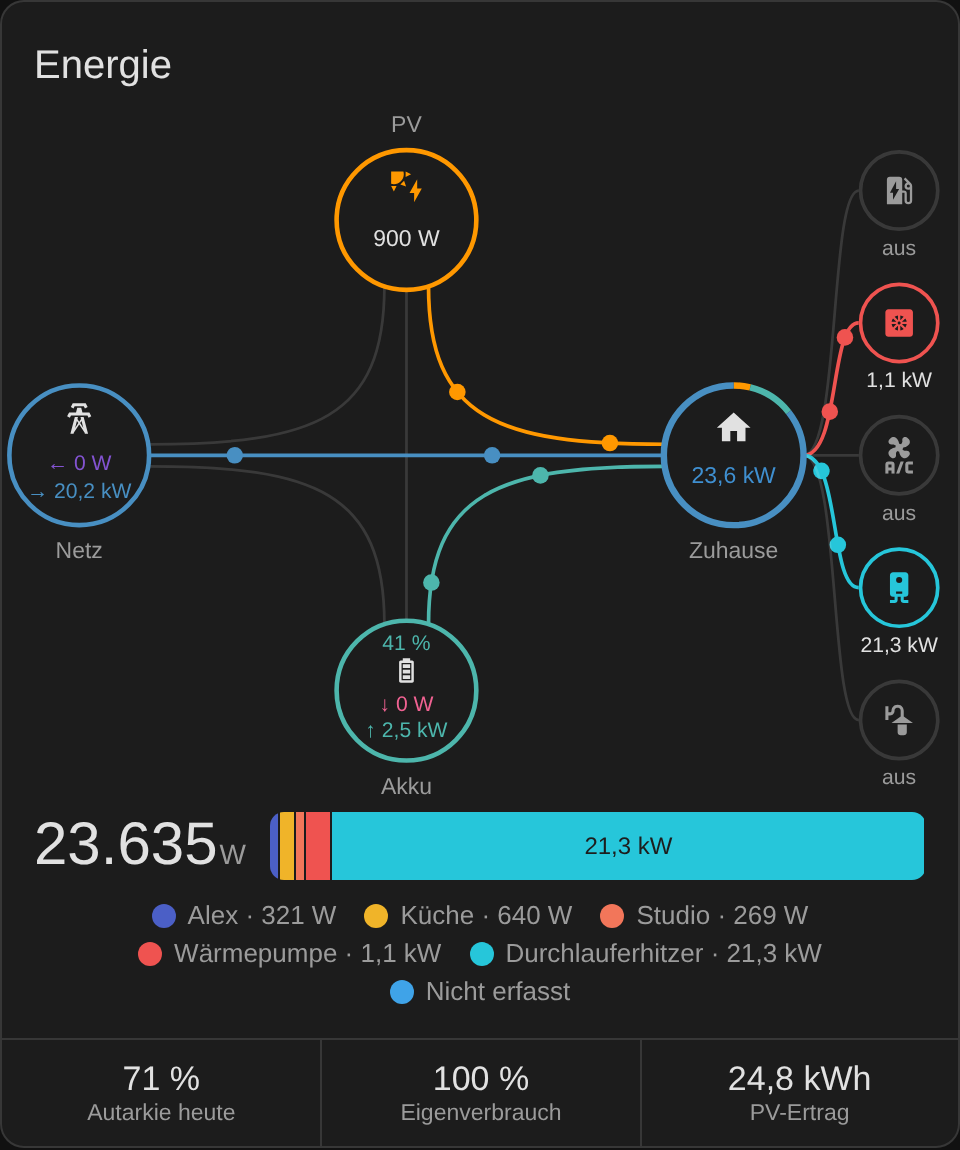
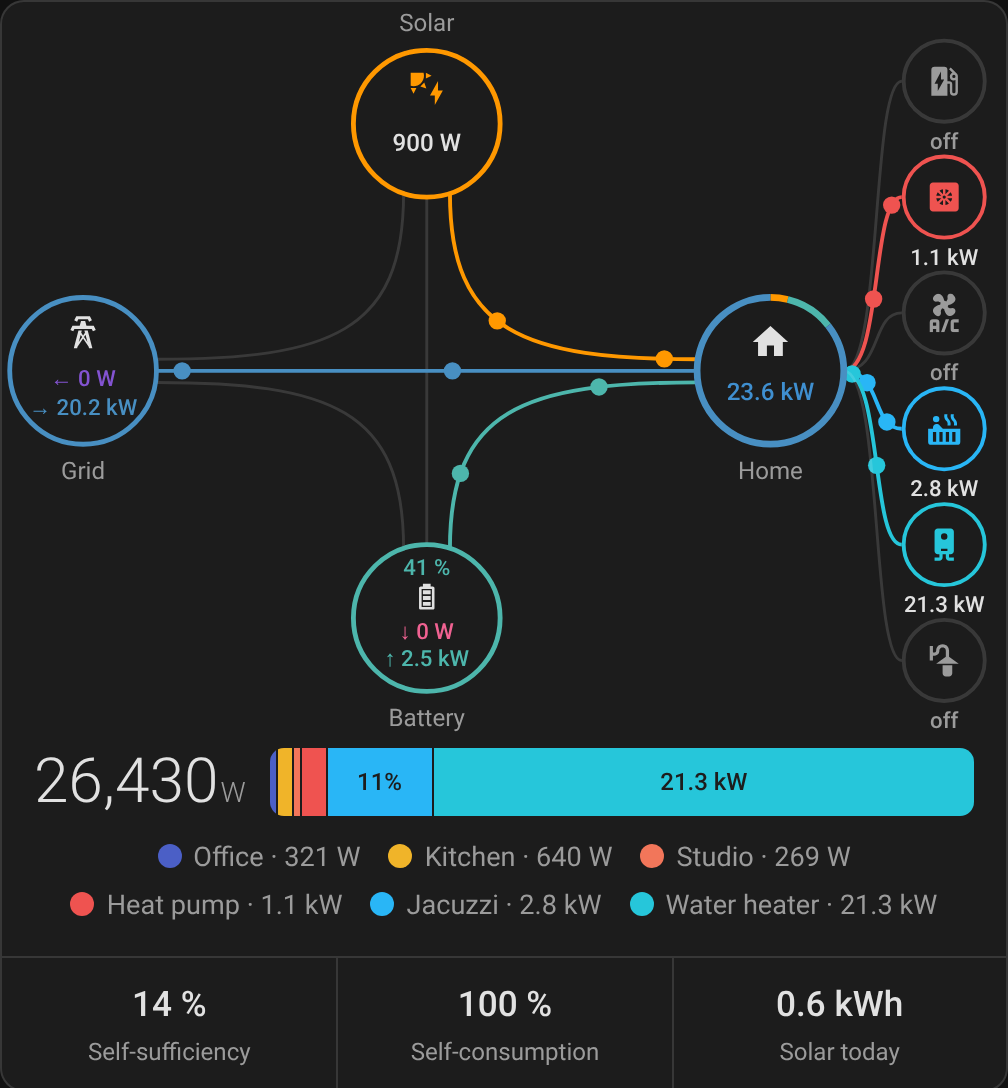
Polish README: gallery of both motifs and the bar card
- New hero GIF switching between the detached and the end-of-terrace
  house at different times of day
- Gallery: both motifs, flow view, light theme and bar card
- Features list, quick start for both cards, options in collapsible
  sections, updated troubleshooting
- Screenshots re-rendered in English; outdated images removed

Claude-Session: https://claude.ai/code/session_01DpoPNKA5wppDXtEv39Y1FU

Changed region(s): [[0.0, 0.0, 1.0, 1.0], [0.0312, 0.0312, 0.1875, 0.0938]]

diff --git a/README.md b/README.md
@@ -2,35 +2,62 @@
 
 # Very Custom Energy House Card
 
-**Your whole energy system in one Home Assistant card – solar, battery, grid, big appliances and every consumer, drawn as a little house.**
+**Your whole energy system as a little house – solar, battery, grid, big appliances, lighting and every consumer in one Home Assistant card.**
 
 [![HACS Custom](https://img.shields.io/badge/HACS-Custom-41BDF5.svg)](https://hacs.xyz/docs/faq/custom_repositories)
 [![Release](https://img.shields.io/github/v/release/Pfillip/very-custom-energy-house-card)](https://github.com/Pfillip/very-custom-energy-house-card/releases/latest)
 [![Build](https://github.com/Pfillip/very-custom-energy-house-card/actions/workflows/build.yml/badge.svg)](https://github.com/Pfillip/very-custom-energy-house-card/actions/workflows/build.yml)
 [![License: MIT](https://img.shields.io/github/license/Pfillip/very-custom-energy-house-card)](LICENSE)
 
-[**▶ Try the live demo**](https://pfillip.github.io/very-custom-energy-house-card/) · [Install](#installation) · [Configuration](#configuration) · [Changelog](CHANGELOG.md)
+[**▶ Live demo**](https://pfillip.github.io/very-custom-energy-house-card/) · [Installation](#installation) · [Quick start](#quick-start) · [Options](#options) · [Changelog](CHANGELOG.md)
 
-<img src="https://raw.githubusercontent.com/Pfillip/very-custom-energy-house-card/main/docs/images/demo.gif" alt="The card cycling from night to morning, noon and evening" width="480">
+<img src="https://raw.githubusercontent.com/Pfillip/very-custom-energy-house-card/main/docs/images/demo.gif" alt="The card switching between the detached house and the end-of-terrace house at different times of day" width="440">
 
 </div>
 
-## Highlights
+## Two motifs, two cards
 
-| | |
-| --- | --- |
-| 🏠 **House view** | An isometric house with solar roof, windows, front door and garden. Inverter, battery, wallbox, heat pump and air conditioner sit on the walls as 3D units. Cables light up in the color of the energy source and run in the direction of the flow. |
-| 🏘 **Two house motifs** | A detached house with gable roof, or an end-of-terrace house with flat roof, neighbour, two garages with PV and a back garden (`house_style: terraced`). |
-| 🔀 **Flow view** | Solar, grid, battery and home as nodes with all six flow paths. Dots move faster with more power; the ring around *Home* shows where the energy comes from. |
-| 🔌 **Large appliances** | Wallbox, heat pump, air conditioner, instantaneous water heater and any number of heating rods. Each one only appears once it is configured; water heater and heating rods can hide while inactive. |
-| 💡 **Lighting** | Front garden (light above the door, bollards along the walkway), back garden and the lights inside the house – the windows glow, dimmed to the light's brightness. Each follows its own light or switch. |
-| 📊 **Consumption bar** | Your consumers and the large appliances as one stacked bar. Whatever is not covered shows up as *Untracked*. |
-| 🔢 **Key figures** | Three slots with your own entities and names, or live self-sufficiency and self-consumption. Hide them completely if you don't need them. |
-| 🎨 **Fits your dashboard** | Visual editor, light and dark themes, energy colors from your theme, English and German. Clicking anything opens its more-info dialog. |
+<table>
+  <tr>
+    <td width="50%" valign="top">
+      <img src="https://raw.githubusercontent.com/Pfillip/very-custom-energy-house-card/main/docs/images/house-classic.png" alt="Detached house at noon: solar export, battery charging, wallbox and heating rod active">
+      <p align="center"><b>Detached house</b><br><sub><code>house_style: classic</code></sub></p>
+    </td>
+    <td width="50%" valign="top">
+      <img src="https://raw.githubusercontent.com/Pfillip/very-custom-energy-house-card/main/docs/images/house-terraced.png" alt="End-of-terrace house in the evening with lit windows, garden lighting and the jacuzzi running">
+      <p align="center"><b>End-of-terrace house</b> with garages and back garden<br><sub><code>house_style: terraced</code></sub></p>
+    </td>
+  </tr>
+  <tr>
+    <td width="50%" valign="top">
+      <img src="https://raw.githubusercontent.com/Pfillip/very-custom-energy-house-card/main/docs/images/flow-view.png" alt="Flow view in the morning with the water heater running">
+      <p align="center"><b>Flow view</b><br><sub><code>view: flow</code> or switchable in the card</sub></p>
+    </td>
+    <td width="50%" valign="top">
+      <img src="https://raw.githubusercontent.com/Pfillip/very-custom-energy-house-card/main/docs/images/light-theme.png" alt="Detached house in a light theme in the evening with indoor and garden lights on">
+      <p align="center"><b>Light and dark themes</b><br><sub>colors follow your Home Assistant theme</sub></p>
+    </td>
+  </tr>
+  <tr>
+    <td colspan="2" valign="top">
+      <img src="https://raw.githubusercontent.com/Pfillip/very-custom-energy-house-card/main/docs/images/bar-card.png" alt="Bar card with chips, consumption bar, legend and key figures">
+      <p align="center"><b>Bar card</b> – the consumption bar as a card of its own<br><sub><code>custom:very-custom-energy-bar-card</code></sub></p>
+    </td>
+  </tr>
+</table>
 
-## Live demo
+<sub>All pictures use simulated sensor values. Try them yourself in the <a href="https://pfillip.github.io/very-custom-energy-house-card/">live demo</a>.</sub>
 
-The [live demo](https://pfillip.github.io/very-custom-energy-house-card/) runs the real card with simulated sensor values. Switch the time of day, the lights, the theme and the language to see how the card reacts.
+## Features
+
+- 🏠 **House view** – an isometric house with solar roof, windows, door and garden. Inverter, battery, wallbox, heat pump and air conditioner hang on the walls as 3D units; cables light up in the color of the energy source and run in the direction of the flow.
+- 🔋 **Battery at a glance** – the battery front is a 5-segment gauge: red below 20 %, amber below 50 %, green above.
+- 🔀 **Flow view** – solar, grid, battery and home with all six flow paths. Dots move faster with more power; the ring around *Home* shows where the energy comes from.
+- 🔌 **Large appliances** – wallbox, heat pump, air conditioner, jacuzzi, instantaneous water heater and any number of heating rods. Each appears only once it is configured; some can hide while inactive.
+- 💡 **Lighting** – front garden, back garden and indoor lights. Windows glow dimmed to the light's brightness, bollards light the walkway and the garden.
+- 📊 **Consumption bar** – your consumers and the large appliances as one stacked bar; whatever is not covered shows up as *Untracked*. Also available as its own card.
+- 🔢 **Key figures** – three slots with your own entities and names, or live self-sufficiency and self-consumption. Or none at all.
+- 🎨 **Fits your dashboard** – visual editor, custom colors for every consumer, adjustable label size, sections layout with free height, side-by-side layout on wide cards, English and German. Clicking anything opens its more-info dialog.
 
 ## Installation
 
@@ -38,31 +65,50 @@ The [live demo](https://pfillip.github.io/very-custom-energy-house-card/) runs t
 
 [![Open your Home Assistant instance and open this repository in HACS.](https://my.home-assistant.io/badges/hacs_repository.svg)](https://my.home-assistant.io/redirect/hacs_repository/?owner=Pfillip&repository=very-custom-energy-house-card&category=plugin)
 
-Or by hand:
+Or by hand: HACS → ⋮ → **Custom repositories** → add `https://github.com/Pfillip/very-custom-energy-house-card` with type **Dashboard**, then download **Very Custom Energy House Card** and reload the browser.
 
-1. Open HACS → ⋮ → **Custom repositories**.
-2. Add `https://github.com/Pfillip/very-custom-energy-house-card` with type **Dashboard**.
-3. Search for **Very Custom Energy House Card** and download it.
-4. Reload the browser.
-
-### Manual
+<details>
+<summary>Manual installation</summary>
 
 1. Download `very-custom-energy-house-card.js` from the [latest release](https://github.com/Pfillip/very-custom-energy-house-card/releases/latest).
 2. Copy it to `config/www/`.
 3. Add it as a dashboard resource: **Settings → Dashboards → ⋮ → Resources**, URL `/local/very-custom-energy-house-card.js`, type *JavaScript module*.
 
-## Configuration
+</details>
 
-Add the card through **Add card → Very Custom Energy House Card** and set it up in the visual editor. A minimal YAML configuration needs just your energy sensors:
+Both cards come in the same file – after installing you find **Very Custom Energy House Card** and **Very Custom Energy Bar Card** in the card picker.
+
+## Quick start
+
+Add the card via **Add card → Very Custom Energy House Card** and click through the visual editor. In YAML, your energy sensors are all it needs:
 
 ```yaml
 type: custom:very-custom-energy-house-card
+house_style: terraced            # or classic
 entities:
   pv: sensor.pv_power
   grid: sensor.grid_power         # + import / − export
   battery: sensor.battery_power   # + discharge / − charge
   battery_soc: sensor.battery_soc
 ```
+
+The **bar card** takes the same configuration – copy the YAML over and change the type:
+
+```yaml
+type: custom:very-custom-energy-bar-card
+title: Verbrauch
+entities:
+  pv: sensor.pv_power
+  grid: sensor.grid_power
+  battery: sensor.battery_power
+consumers:
+  - entity: sensor.kitchen_power
+    name: Küche
+show_chips: false                # lighting and appliance chips above the bar
+show_kpis: true
+```
+
+Want the house without the bar? Turn off `show_consumers` and `show_kpis` in the house card and place the bar card wherever you like.
 
 <details>
 <summary><b>Full example</b></summary>
@@ -71,6 +117,7 @@ entities:
 type: custom:very-custom-energy-house-card
 title: Energie
 view: switch                          # house | flow | switch
+house_style: terraced                 # classic | terraced
 entities:
   pv: sensor.pv_power
   grid: sensor.grid_power
@@ -87,6 +134,8 @@ devices:
     entity: sensor.heat_pump_power
   air_conditioner:
     entity: sensor.air_conditioner_power
+  jacuzzi:
+    entity: sensor.jacuzzi_power
   water_heater:
     entity: sensor.water_heater_power
     hide_inactive: true
@@ -120,30 +169,36 @@ show_consumers: true
 show_kpis: true
 animation: true
 active_threshold: 10
+label_scale: 120
 total_font_weight: light              # light | regular | medium | bold
 untracked_color: "#3fa3e8"
 ```
 
 </details>
 
-### Options
+## Options
 
-**General**
+<details open>
+<summary><b>General</b></summary>
 
 | Option | Type | Default | Description |
 | --- | --- | --- | --- |
 | `title` | string | – | Card title. |
-| `view` | `house` \| `flow` \| `switch` | `switch` | Fixed view, or `switch` to show view buttons in the card. |
-| `house_style` | `classic` \| `terraced` | `classic` | House motif: detached house with gable roof, or end-of-terrace house with flat roof and garages. |
+| `view` | `house` \| `flow` \| `switch` | `switch` | Fixed view, or `switch` for view buttons in the card. |
+| `house_style` | `classic` \| `terraced` | `classic` | Detached house with gable roof, or end-of-terrace house with flat roof, garages and back garden. |
 | `show_consumers` | boolean | `true` | Show the consumption bar. |
-| `show_kpis` | boolean | `true` | Show the key figures. `false` hides them completely. |
-| `animation` | boolean | `true` | Animate the flows. |
+| `show_kpis` | boolean | `true` | Show the key figures. |
+| `show_chips` | boolean | `false` | Bar card only: lighting and appliance chips above the bar. |
+| `animation` | boolean | `true` | Animate flows, bubbles and steam. |
 | `active_threshold` | number | `10` | Power in W from which an appliance counts as active. |
-| `total_font_weight` | `light` \| `regular` \| `medium` \| `bold` | `light` | Font weight of the total next to the consumption bar. |
+| `label_scale` | number (80–200) | `100` | Size of the labels in the drawing, in percent. |
+| `total_font_weight` | `light` \| `regular` \| `medium` \| `bold` | `light` | Font weight of the total next to the bar. |
 | `untracked_color` | color | `#3fa3e8` | Color of the *Untracked* segment. |
-| `label_scale` | number (80–200) | `100` | Size of the labels in the house and flow drawing, in percent. Labels stay inside the drawing. |
 
-**Sources** (`entities`)
+</details>
+
+<details>
+<summary><b>Sources</b> (<code>entities</code>)</summary>
 
 | Option | Type | Description |
 | --- | --- | --- |
@@ -155,21 +210,31 @@ untracked_color: "#3fa3e8"
 | `battery_soc` | entity | Battery state of charge in %. |
 | `home` | entity | Home consumption. Calculated from solar + grid + battery if omitted. |
 
-**Appliances and lighting** (`devices`) – each one only appears once it has an entity. Every appliance also takes an optional `color` (hex, e.g. `"#e91e63"`) for its cable, node, chip and bar segment.
+Power sensors may report W, kW or MW; values are converted automatically.
+
+</details>
+
+<details>
+<summary><b>Appliances and lighting</b> (<code>devices</code>)</summary>
+
+Each one only appears once it has an entity. Every entry also takes an optional `color` (hex, e.g. `"#e91e63"`) for its cable, node, chip and bar segment.
 
 | Option | Fields | Description |
 | --- | --- | --- |
-| `wallbox` | `entity`, `name` | Wallbox on the front wall. |
-| `heat_pump` | `entity`, `name` | Outdoor unit next to the gable wall. |
+| `wallbox` | `entity`, `name` | Wallbox on the wall or at the garage. |
+| `heat_pump` | `entity`, `name` | Outdoor unit next to the house. |
 | `air_conditioner` | `entity`, `name` | Wall-mounted outdoor unit. |
-| `jacuzzi` | `entity`, `name` | Hot tub. In the terraced motif it shows up – bubbling and steaming – in the back garden while it is running. |
-| `water_heater` | `entity`, `name`, `hide_inactive` | Shown as a chip below the house. |
-| `heating_rods` | `entities` (list of `entity`, `name`, `color`), `hide_inactive` | Shown as chips below the house. |
-| `lighting` | `entity`, `power`, `name` | Front garden lighting. `entity` is a light, switch or input_boolean; the optional `power` sensor adds it to the bar. |
-| `garden_lighting` | `entity`, `power`, `name` | Back garden lighting, same options. |
-| `indoor_lighting` | `entity`, `brightness`, `power`, `name` | Lights inside the house: the windows glow while `entity` is on. The glow follows the light's own brightness, or an optional `brightness` entity (number, input_number or sensor; 0–100 % or 0–255). |
+| `jacuzzi` | `entity`, `name` | Hot tub. In the terraced motif it shows up – bubbling and steaming – in the back garden while it runs. |
+| `water_heater` | `entity`, `name`, `hide_inactive` | Chip below the house. |
+| `heating_rods` | `entities` (list of `entity`, `name`, `color`), `hide_inactive` | Chips below the house. |
+| `lighting` | `entity`, `power`, `name` | Front garden: light above the door and bollards along the walkway. `entity` is a light, switch or input_boolean; `power` adds it to the bar. |
+| `garden_lighting` | `entity`, `power`, `name` | Back garden bollards, same options. |
+| `indoor_lighting` | `entity`, `brightness`, `power`, `name` | The windows glow while `entity` is on, dimmed by the light's brightness or an optional `brightness` entity (number, input_number or sensor; 0–100 % or 0–255). |
 
-**Consumers and key figures**
+</details>
+
+<details>
+<summary><b>Consumers and key figures</b></summary>
 
 | Option | Fields | Description |
 | --- | --- | --- |
@@ -178,54 +243,21 @@ untracked_color: "#3fa3e8"
 | `kpis.self_consumption` | `entity`, `name` | Key figure 2. Without entity: live self-consumption. |
 | `kpis.pv_today` | `entity`, `name` | Key figure 3. Only shown with an entity. |
 
-Power sensors may report W, kW or MW; values are converted automatically.
-
-### Bar card
-
-The package contains a second card, **Very Custom Energy Bar Card**, with just the consumption bar: total, stacked bar and legend, plus optional key figures and chips. Use it to place the bar somewhere else than the house – for example the house on an overview page and the bar next to your room cards. For a house without bar, turn off `show_consumers` and `show_kpis` in the house card.
-
-```yaml
-type: custom:very-custom-energy-bar-card
-title: Verbrauch
-entities:
-  pv: sensor.pv_power          # needed to calculate the home consumption …
-  grid: sensor.grid_power
-  battery: sensor.battery_power
-  # home: sensor.house_consumption   # … or set it directly
-consumers:
-  - entity: sensor.kitchen_power
-    name: Küche
-show_chips: false              # lighting and appliance chips above the bar
-show_kpis: true
-```
-
-It takes the same configuration as the house card, so you can copy the YAML from one card to the other; options that only concern the house are ignored.
+</details>
 
 ### Size and layout
 
-The card adapts to the space it gets – there is nothing to configure:
+The cards adapt to the space they get:
 
-- **Sections dashboard**: resize the card in the *Layout* tab like any built-in card. With *automatic height* the drawing keeps its natural proportions; with a fixed height it shrinks or grows to fill the card, and the bar and key figures scroll if space gets really tight.
-- **Wide cards** (about 720 px and more): the drawing moves to the left and chips, consumption bar and key figures sit next to it.
-- **Text** of the bar, legend and key figures grows and shrinks with the card width.
-
-## Screenshots
-
-| House view | Flow view | Light theme |
-| --- | --- | --- |
-| ![House view at noon with solar export, wallbox charging and heating rod active](https://raw.githubusercontent.com/Pfillip/very-custom-energy-house-card/main/docs/images/house-view.png) | ![Flow view in the morning with the water heater running](https://raw.githubusercontent.com/Pfillip/very-custom-energy-house-card/main/docs/images/flow-view.png) | ![House view in a light theme in the evening with the lights on](https://raw.githubusercontent.com/Pfillip/very-custom-energy-house-card/main/docs/images/house-view-light.png) |
-
-**End-of-terrace motif** (`house_style: terraced`):
-
-<img src="https://raw.githubusercontent.com/Pfillip/very-custom-energy-house-card/main/docs/images/terraced.png" alt="End-of-terrace house in the evening with lit windows, garden lighting and the jacuzzi running" width="480">
-
-*Screenshots use simulated sensor values.*
+- **Sections dashboard** – resize the card in the *Layout* tab like any built-in card. With a fixed height the drawing shrinks or grows to fill it.
+- **Wide cards** (about 720 px and more) – chips, bar and key figures move next to the drawing.
+- **Text** of the bar, legend and key figures follows the card width; the labels in the drawing follow `label_scale`.
 
 ## Troubleshooting
 
-- **The editor or card looks like an older version after an update.** Your browser still has the old file cached. Reload the page with an empty cache, or restart the Home Assistant app on your phone.
+- **The card or editor still looks like the old version after an update.** Reload the page with an empty cache, or restart the Home Assistant app.
 - **Import and export (or charging and discharging) are swapped.** Turn on `grid_invert` or `battery_invert` – some meters report the opposite sign.
-- **An appliance does not show up.** Appliances only appear once a sensor is set. Water heater and heating rods with `hide_inactive` only appear while they draw more than `active_threshold`.
+- **An appliance does not show up.** It needs a sensor. Water heater and heating rods with `hide_inactive`, and the jacuzzi in the terraced motif, only appear while they draw more than `active_threshold`.
 
 ## Development
 
@@ -234,9 +266,9 @@ npm install
 npm run watch
 ```
 
-Serve the repository root (for example with `python3 -m http.server`) and open `http://localhost:8000/demo/` for the demo page, `http://localhost:8000/dev/` for the test page or `http://localhost:8000/dev/sizes.html` to compare card sizes.
+Serve the repository root (for example with `python3 -m http.server`) and open `/demo/` for the demo page, `/dev/` for the test page or `/dev/sizes.html` to compare card sizes.
 
-Releases are built by GitHub Actions: publish a release with a tag like `v0.5.0` and the workflow attaches `very-custom-energy-house-card.js`. The demo is published to GitHub Pages on every push to `main`.
+Releases are built by GitHub Actions: publish a release with a tag like `v0.7.0` and the workflow attaches `very-custom-energy-house-card.js`. The demo is published to GitHub Pages on every push to `main`.
 
 ## License
 
